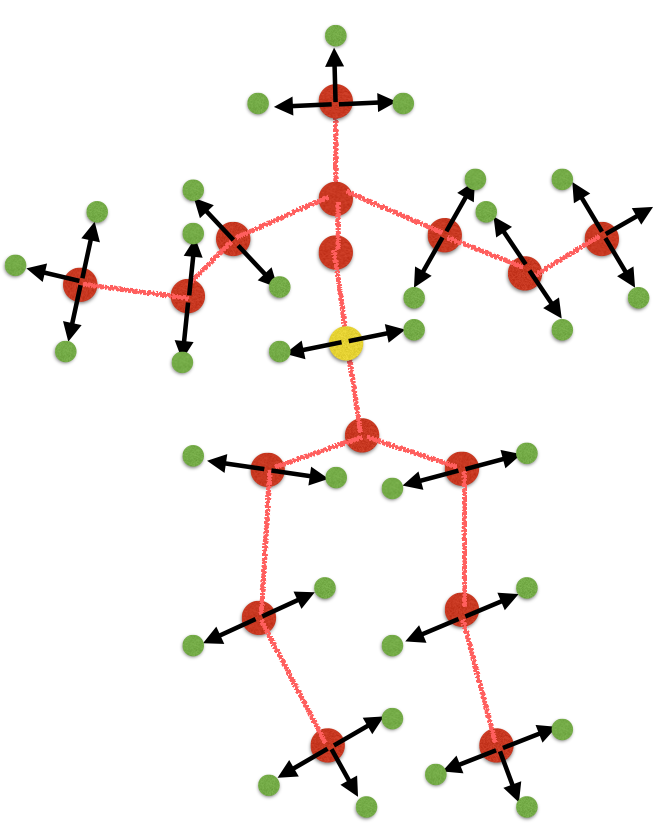
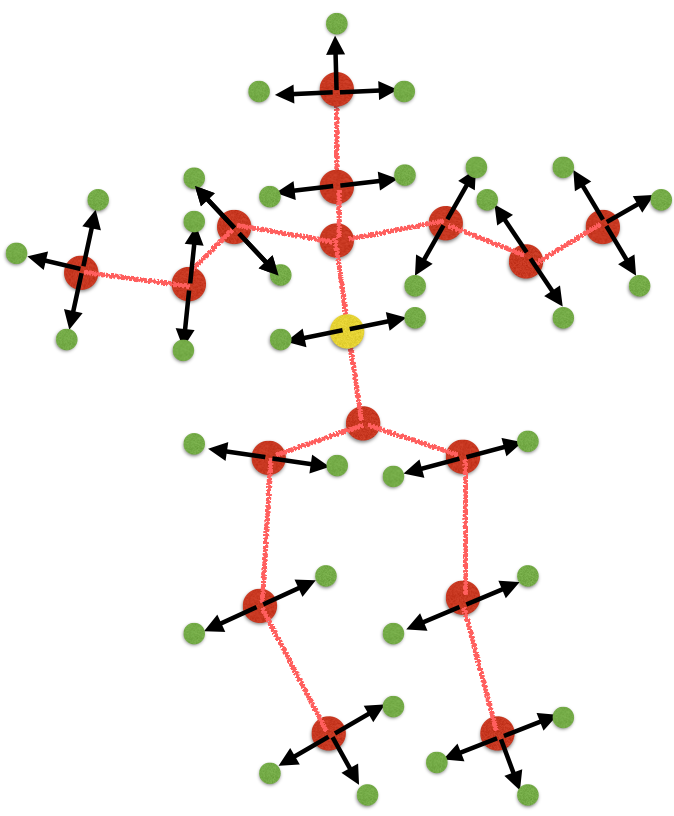
update images display in HPE

diff --git a/README.md b/README.md
@@ -111,7 +111,7 @@ th ./pose-hg-demo/run-hg.lua
 Base on the vector constructed between 2 landmarks, calculate its norm direction and mark out these points(green points in the concept figure) as the possible contour points.
 The following are the concept figure:
 	<div align="center">
-	<img src="./images/HPE_.png" height="240px">
+	<img src="./images/HPE_landmarks.png" height="240px">
 	<img src="./images/HPE_extendPts_dir.png" height="240px">
 	<img src="./images/HPE_extendPts.png" height="240px">
 	<img src="./images/HPE_extendPts_result.png" height="240px">
